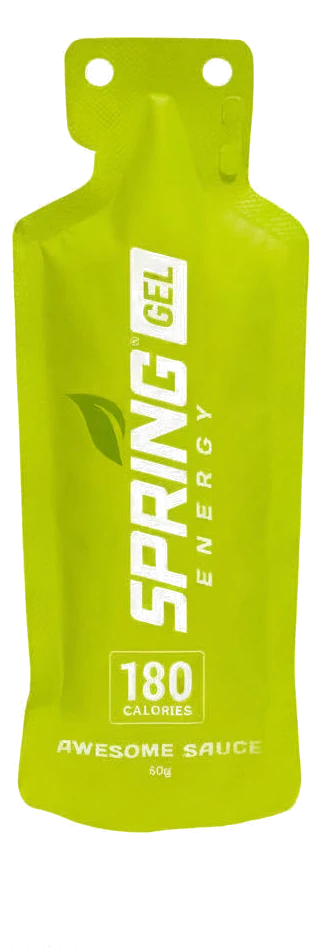
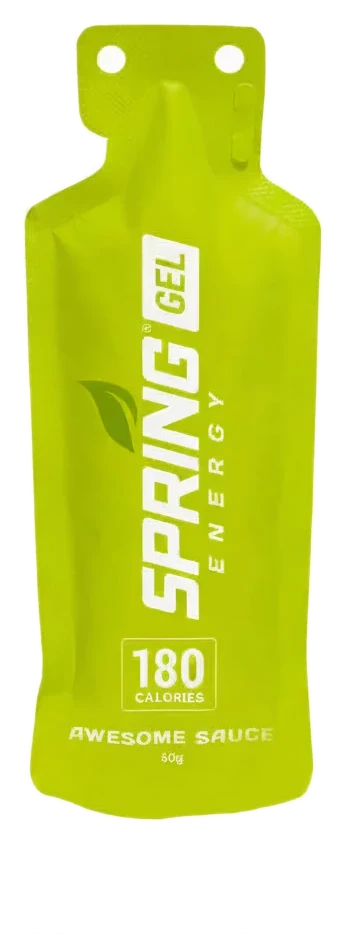
Replace 7 product photos and remove Hammer Nutrition and UnTapped products
Photo replacements (background isolated to transparent, matching site convention): GU Roctane (also fixes a long-standing fake-transparency defect and standardizes it from .png to .webp), Maurten Gel 100 Caf 100, Maurten Drink Mix 160, Spring Energy Awesome Sauce, NeverSecond C30+ (cropped out a '12 unit pack' retail badge that was part of the source photo), High5 Energy Gel, and TORQ Energy Gel.

Removed all three Hammer Nutrition products (Gel Espresso, HEED, Endurolytes Fizz) and all three UnTapped products (Maple gel, Coffee gel, Hydration Drink Mix) at the user's request, along with their now-orphaned photo files. Catalog is fully data-driven, so counts, comparisons, sitemap, etc. all update automatically.

diff --git a/fuelcheck-products.js b/fuelcheck-products.js
@@ -131,7 +131,7 @@ const PRODUCTS = [
   id:"gu-roctane", code:"ROC", short:"Roctane Energy Gel", name:"GU Roctane Energy Gel", brand:"GU Energy Labs",
   reviewed:"2026-08-26",
   buy:[{retailer:"Running Warehouse", url:"https://www.runningwarehouse.com/GU_Roctane_Energy_Gel/descpage-GUR24.html", price:3.00}],
-  photo:"Product Photos/gu-roctane-energy-gel.png",
+  photo:"Product Photos/gu-roctane-energy-gel.webp",
   serving:"32 g sachet", kcal:100, carbs:21, sugars:6, sodium:125, caffeine:0,
   price:3.00, boxPrice:72.00, boxQty:24,
   ratio:"n/d", ratioProv:"Not disclosed", ratioScore:null,
@@ -173,22 +173,6 @@ const PRODUCTS = [
   cons:["No glucose-to-fructose ratio: the carb source is maltodextrin plus cane sugar (sucrose), not a declared glucose:fructose blend.","$0.069 a gram ties Hammer for second-cheapest here, not a mid-pack price, but it's no cheaper than Hammer, which also brings caffeine and less sugar.","24 g a sachet means over 3.7 an hour to hold 90 g/hr."],
   yes:["You want a short, mostly-organic ingredient list at a mid-range price.","You value sodium in the gel itself over a stated carb ratio."],
   no:["You're chasing the lowest cost per gram in the category.","You specifically want a declared, verifiable absorption ratio."]
-},
-{
-  category:"gel", servingWord:"sachet",
-  id:"hammer-gel-espresso", code:"HAM", short:"Hammer Gel Espresso", name:"Hammer Gel Espresso", brand:"Hammer Nutrition",
-  reviewed:"2026-08-26",
-  buy:[{retailer:"Hammer Nutrition", url:"https://hammernutrition.com/products/hammer-gel", price:1.60}],
-  photo:"Product Photos/hammer-gel-espresso.webp",
-  serving:"33 g sachet", kcal:95, carbs:21, sugars:3, sodium:40, caffeine:50,
-  price:1.46, boxPrice:34.95, boxQty:24,
-  ratio:"n/d", ratioProv:"Not disclosed", ratioScore:null,
-  ingredients:"Maltodextrin, Water, Tapioca Syrup, EnergySmart (Rice Syrup, Grape Juice Concentrate), Cocoa Powder, Natural Flavor, Coffee, Salt, Caffeine, Ascorbic Acid, Potassium Sorbate, L-Leucine, L-Alanine, L-Valine, Potassium Carbonate, L-Isoleucine",
-  thesis:"Hammer's proprietary rice-syrup-and-grape-juice blend keeps sugars down to 3 g out of 21 g carbohydrate, the lowest sugar content of any gel here, at <b>the cheapest box price in the category</b> after SiS.",
-  pros:["$0.069 a gram, second-cheapest here.","Only 3 g of sugars per sachet, the lowest of any gel reviewed.","50 mg of caffeine and a genuine espresso flavor, not a vague 'coffee' note."],
-  cons:["No glucose-to-fructose ratio: Hammer's EnergySmart blend is proprietary and not broken out into a declared carb ratio.","Caffeine is fixed into this flavor; Hammer's non-caffeinated flavors are separate SKUs.","40 mg of sodium is on the low end, similar to Maurten's."],
-  yes:["Low sugar content matters to you specifically.","You want caffeine and a low price in the same sachet."],
-  no:["You need a non-caffeinated option in this exact flavor.","You want a stated, verifiable carb ratio."]
 },
 {
   category:"gel", servingWord:"sachet",
@@ -237,22 +221,6 @@ const PRODUCTS = [
   cons:["At $0.363 a gram of carbohydrate, more than five times SiS Beta Fuel's price for the same nutrient.","Only 6 mg of sodium, the lowest of any gel reviewed by a wide margin.","Contains tree nuts, a real constraint for some athletes; high fat content is atypical for a during-effort gel and may sit heavier on some stomachs than a standard carb gel."],
   yes:["You want a genuinely whole-food fuel and are prepared to pay for it.","You're fuelling at a lower carbohydrate rate and want fat-derived calories alongside it."],
   no:["You have a tree nut allergy.","You need to hold 90 g/hr of carbohydrate; the low carb-per-sachet and high price make this an expensive way to do it."]
-},
-{
-  category:"gel", servingWord:"sachet",
-  id:"untapped-maple", code:"UNT", short:"Maple Energy Gel", name:"UnTapped Maple-Based Energy Gel", brand:"UnTapped",
-  reviewed:"2026-08-26",
-  buy:[{retailer:"The Run House", url:"https://therunhouse.com/products/untapped-maple-untapped-energy-gel-1-oz", price:2.20}],
-  photo:"Product Photos/untapped-maple-energy-gel.webp",
-  serving:"38 g sachet", kcal:100, carbs:26, sugars:26, sodium:5, caffeine:0,
-  price:2.25, boxPrice:44.95, boxQty:20,
-  ratio:"n/d", ratioProv:"Not disclosed", ratioScore:null,
-  ingredients:"Organic Pure Vermont Maple Syrup",
-  thesis:"A single ingredient &mdash; organic Vermont maple syrup &mdash; and nothing else, at <b>$0.087 a gram</b>, a genuinely short answer to the question of what's actually in a gel.",
-  pros:["One ingredient. The shortest label of any gel we've reviewed, by a wide margin.","USDA organic, single-origin Vermont maple syrup.","$0.087 a gram, close to the cheaper end of the field."],
-  cons:["No glucose-to-fructose ratio: maple syrup's sugar composition is whatever the tree and the season produced, not a controlled blend.","5 mg of sodium, functionally none.","Flavor is exactly and only maple, which some find fatiguing late in a long race."],
-  yes:["You want the shortest possible ingredient list and don't need a stated ratio.","You like maple flavor and want it unmixed with anything else."],
-  no:["You want a verified absorption ratio.","You need the gel to carry meaningful sodium."]
 },
 {
   category:"gel", servingWord:"sachet",
@@ -589,22 +557,6 @@ const PRODUCTS = [
   no:["You want a fast-digesting, fat-free gel for high-intensity racing.","You need a stated, verifiable glucose:fructose ratio to plan your intake rate."]
 },
 {
-  category:"gel", 
-  id:"untapped-coffee", code:"UTC", short:"Coffee", name:"UnTapped Coffee", brand:"UnTapped",
-  reviewed:"2026-08-28",
-  buy:[{retailer:"UnTapped", url:"https://untapped.cc/product/coffee-untapped-energy-gel/", price:2.49}],
-  photo:"Product Photos/untapped-coffee.webp",
-  serving:"38 g sachet", kcal:100, carbs:26, sugars:25, sodium:11, caffeine:27,
-  price:2.25, boxPrice:44.95, boxQty:20,
-  ratio:"n/d", ratioProv:"Not disclosed", ratioScore:null,
-  ingredients:"Organic Pure Vermont Maple Syrup, Coffee",
-  thesis:"The same single-source Vermont maple syrup as UnTapped's plain Maple gel, with 27 mg of caffeine from real coffee added at essentially <b>the same $0.086-a-gram price</b> as the non-caffeinated version.",
-  pros:["Two-ingredient label &mdash; organic Vermont maple syrup and coffee &mdash; carrying 27 mg of caffeine from a real source rather than an isolate.","$0.086 a gram of carbohydrate, matching UnTapped's own non-caffeinated Maple gel almost exactly.","11 mg of sodium, a small but real step up from the plain Maple gel's 5 mg."],
-  cons:["No glucose-to-fructose ratio: maple syrup's sugar profile isn't a controlled blend.","27 mg of caffeine is fixed into every sachet; there's no non-caffeinated version of this specific flavor.","25 g of sugars out of 26 g total carbohydrate is essentially all simple sugar, with nothing metered by a slower-digesting carb source."],
-  yes:["You want caffeine from real coffee rather than an extract, at no price premium over the plain gel.","You like UnTapped's short-ingredient approach and want a jump-start flavor for early starts."],
-  no:["You're caffeine-sensitive or racing late in the day.","You want a declared, verifiable absorption ratio."]
-},
-{
   category:"drink", servingWord:"scoop", 
   id:"gu-roctane-drink-mix", code:"GRD", short:"Roctane Drink Mix", name:"GU Roctane Energy Drink Mix", brand:"GU Energy Labs",
   reviewed:"2026-08-28",
@@ -619,22 +571,6 @@ const PRODUCTS = [
   cons:["No glucose:fructose ratio stated or computable, the same gap as the Roctane gel.","Amino-acid dosing at these levels lacks strong single-race ergogenic evidence, the same caveat noted for the gel.","In the 10-pack of single 65 g packets, cost rises to about $4.00 a serving, 78% more than buying the 24-serving canister."],
   yes:["You already use and like the Roctane gel's amino profile and want it in drink form.","You want a low cost per gram of carbohydrate with real sodium built in."],
   no:["You want a stated, verifiable glucose:fructose ratio.","You only want single-serve packets, where the per-serving price nearly doubles."]
-},
-{
-  category:"drink", servingWord:"scoop", 
-  id:"hammer-heed", code:"HEED", short:"HEED", name:"Hammer Nutrition HEED", brand:"Hammer Nutrition",
-  reviewed:"2026-08-28",
-  buy:[{retailer:"Hammer Nutrition", url:"https://www.hammernutrition.com/products/heed", price:37.95, pack:"32-serving container"}],
-  photo:"Product Photos/hammer-heed.webp",
-  serving:"1 scoop (30 g) in 12\u201320 fl oz water", kcal:110, carbs:28, sugars:2, sodium:150, caffeine:0,
-  price:1.19, boxPrice:37.95, boxQty:32,
-  ratio:"n/d", ratioProv:"Not disclosed", ratioScore:null,
-  ingredients:"Tapioca Maltodextrin, Xylitol, Natural Flavors, Sodium Phosphate, Potassium Amino Acid Chelate, Magnesium Amino Acid Chelate, Salt, Stevia Leaf Extract, Monk Fruit Extract, Ascorbic Acid, Calcium Phosphate, L-Carnosine, Glycine, Calcium Glycinate Chelate, L-Tyrosine, Manganese Amino Acid Chelate, Chromium Amino Acid Chelate",
-  thesis:"Sweetened with xylitol, stevia and monk fruit instead of sugar, HEED carries just <b>2 g of sugars in a 28 g carbohydrate scoop</b> \u2014 the lowest sugar share of any drink mix in this catalog, even below Skratch's low-sweetness Cluster Dextrin mix at 4 g of 50 g.",
-  pros:["2 g of sugars per scoop, the lowest sugar-to-carb ratio of any drink mix reviewed.","150 mg of sodium plus declared potassium, magnesium and calcium, not just a single mineral.","No added sugars: sweetness comes entirely from xylitol, stevia and monk fruit extract."],
-  cons:["No glucose:fructose ratio: tapioca maltodextrin is the only carbohydrate source, the same gap as Tailwind's dextrose-only mix.","$0.042 a gram, slightly more than Tailwind's $0.041 for a similarly single-source carb blend.","Contains xylitol, which Hammer's own packaging and FAQ warn is unsafe for dogs."],
-  yes:["You want the least sweet, lowest-sugar drink mix in the field.","You want a fuller electrolyte spread (sodium, potassium, magnesium, calcium) than a single-mineral mix."],
-  no:["You want a stated glucose:fructose ratio for a defined absorption ceiling.","You keep dogs around your gear and want to avoid xylitol entirely."]
 },
 {
   category:"drink", servingWord:"sachet", 
@@ -667,22 +603,6 @@ const PRODUCTS = [
   cons:["2:1 is the older generation of ratio science, the same ceiling as PowerBar's own PowerGel and NEVERSECOND's C30/C90.","No official US retailer: PowerBar sells this only through its DACH-region (Germany/Austria/Switzerland) store, priced in EUR.","20 g of sugars out of 29 g carbohydrate is the sweetest-tasting profile of any drink mix here, more sugar-forward than Skratch or HEED."],
   yes:["You're comparison-shopping on cost per gram and value is a top priority.","You want a high, stated sodium dose and don't mind ordering from a European retailer."],
   no:["You need guaranteed US retail availability and domestic shipping.","You want the field-leading 1:0.8 / 1:0.77 ratio rather than 2:1."]
-},
-{
-  category:"drink", servingWord:"sachet", 
-  id:"untapped-hydration-drink", code:"UTH", short:"MapleAid", name:"UnTapped Hydration Drink Mix", brand:"UnTapped",
-  reviewed:"2026-08-28",
-  buy:[{retailer:"UnTapped", url:"https://untapped.cc/product/mapleaid/", price:44.95, pack:"20-packet carton"}],
-  photo:"Product Photos/untapped-hydration-drink.webp",
-  serving:"1 packet (32 g / 0.8 fl oz), taken directly or mixed into water", kcal:80, carbs:20, sugars:18, sodium:250, caffeine:0,
-  price:2.25, boxPrice:44.95, boxQty:20,
-  ratio:"n/d", ratioProv:"Not disclosed", ratioScore:null,
-  ingredients:"Organic Maple Syrup, Sea Salt",
-  thesis:"Two ingredients \u2014 organic maple syrup and sea salt \u2014 branded MapleAid, deliver <b>250 mg of sodium in a single 32 g packet</b>, fifty times the 5 mg in UnTapped's own Maple gel, while keeping the same short label the brand is known for.",
-  pros:["Two ingredients, tied with UnTapped's own Maple gel for the shortest label of any product in this catalog.","250 mg of sodium per packet from sea salt alone, a real electrolyte dose rather than a token amount.","USDA organic, single-origin Vermont maple syrup, the same sourcing as UnTapped's gel line."],
-  cons:["$0.112 a gram of carbohydrate, the most expensive drink mix in this catalog on cost-per-gram \u2014 it's priced and formulated as a hydration product, not a carb-loading one.","No glucose:fructose ratio: maple syrup's sugar composition is whatever the tree and season produced, the same gap as UnTapped's gel.","No stated water-dilution ratio on the packet or product page; you have to decide how much to cut it yourself."],
-  yes:["You want a genuinely short-label sodium source and already like UnTapped's maple gels.","You're looking for a real sodium dose (250 mg) in a small, packable format."],
-  no:["You want the drink to be your primary carbohydrate source; 20 g a packet is light for that.","You want explicit mixing instructions rather than figuring out your own dilution."]
 },
 {
   category:"electrolyte", servingWord:"tablet", 
@@ -744,21 +664,6 @@ const PRODUCTS = [
   cons:["19 g of carbs per scoop is overkill next to a near-zero-carb electrolyte tablet like Precision's PH 500 (3 g)","Sodium is the only electrolyte broken out on the label; potassium, calcium, and magnesium are present but not given per-serving mg amounts","At roughly $1.20 a serving, more expensive per serving than GU's $0.67 Hydration Tabs"],
   yes:["You want a sports drink that delivers real carbohydrate alongside electrolytes during 1-2 hour efforts","You prefer whole-ingredient formulas (cane sugar, real fruit powder) over synthetic sweeteners"],
   no:["You're doing fasted or low-carb training and want Precision's 3 g-carb PH 500 or a zero-sugar tablet instead","You need documented mg-level potassium, calcium, and magnesium numbers for a race plan; Skratch doesn't break them out per serving"]
-},
-{
-  category:"electrolyte", servingWord:"tablet", 
-  id:"hammer-endurolytes-fizz", code:"HEF", short:"Endurolytes Fizz", name:"Hammer Nutrition Endurolytes Fizz", brand:"Hammer Nutrition",
-  reviewed:"2026-08-28",
-  buy:[{retailer:"Hammer Nutrition", url:"https://hammernutrition.com/products/endurolytes-fizz", price:6.95, pack:"tube of 13 (Grape)"}],
-  photo:"Product Photos/hammer-endurolytes-fizz.webp",
-  serving:"1 tablet per water bottle (dosed at \u00bd tablet per 50\u201360 lb bodyweight per hour)", kcal:7, carbs:1, sodium:200, potassium:100, calcium:100, magnesium:50, caffeine:0,
-  price:0.53, boxPrice:6.95, boxQty:13,
-  ingredients:"Sodium Bicarbonate, Calcium Carbonate, Calcium Chloride, Magnesium Carbonate, Magnesium Oxide, Potassium Bicarbonate, Manganese Gluconate, Vitamin B6 (Pyridoxine Hydrochloride), Citric Acid, Sorbitol, Natural Flavor, Stevia Leaf Extract, Avocado Oil, Monk Fruit",
-  thesis:"A full four-electrolyte tablet \u2014 200 mg sodium, 100 mg calcium, 50 mg magnesium \u2014 plus a declared 13 mg (650% DV) of vitamin B-6 that nothing else in this set quantifies, at <b>$2.67 per 1000 mg of sodium</b>, the highest cost-per-dose of any electrolyte product here.",
-  pros:["100 mg of calcium a tablet, second only to SiS GO Hydro's 102 mg.","50 mg of magnesium, tied with 4Endurance for the second-highest dose behind LMNT's 60 mg.","Breaks in half at the center for a smaller, titratable dose \u2014 a physical feature none of the other tablets here have."],
-  cons:["$2.67 per 1000 mg of sodium is the most expensive way to that dose in this set, ahead of Nuun Sport's $2.50.","200 mg of sodium a tablet is mid-pack; you need five tablets to match LMNT's single-stick dose.","Carbohydrate is only declared as \"<1 g,\" not an exact figure, unlike SiS GO Hydro's stated 0.9 g."],
-  yes:["You want calcium and magnesium alongside sodium in one tablet and don't mind paying the field's highest per-dose cost for it.","You want a tablet you can physically split for a smaller dose."],
-  no:["You're optimizing purely for cost per 1000 mg of sodium.","You want a single tablet to carry a large sodium dose; 200 mg means many tablets across a long day."]
 },
 {
   category:"electrolyte", servingWord:"tablet", 
